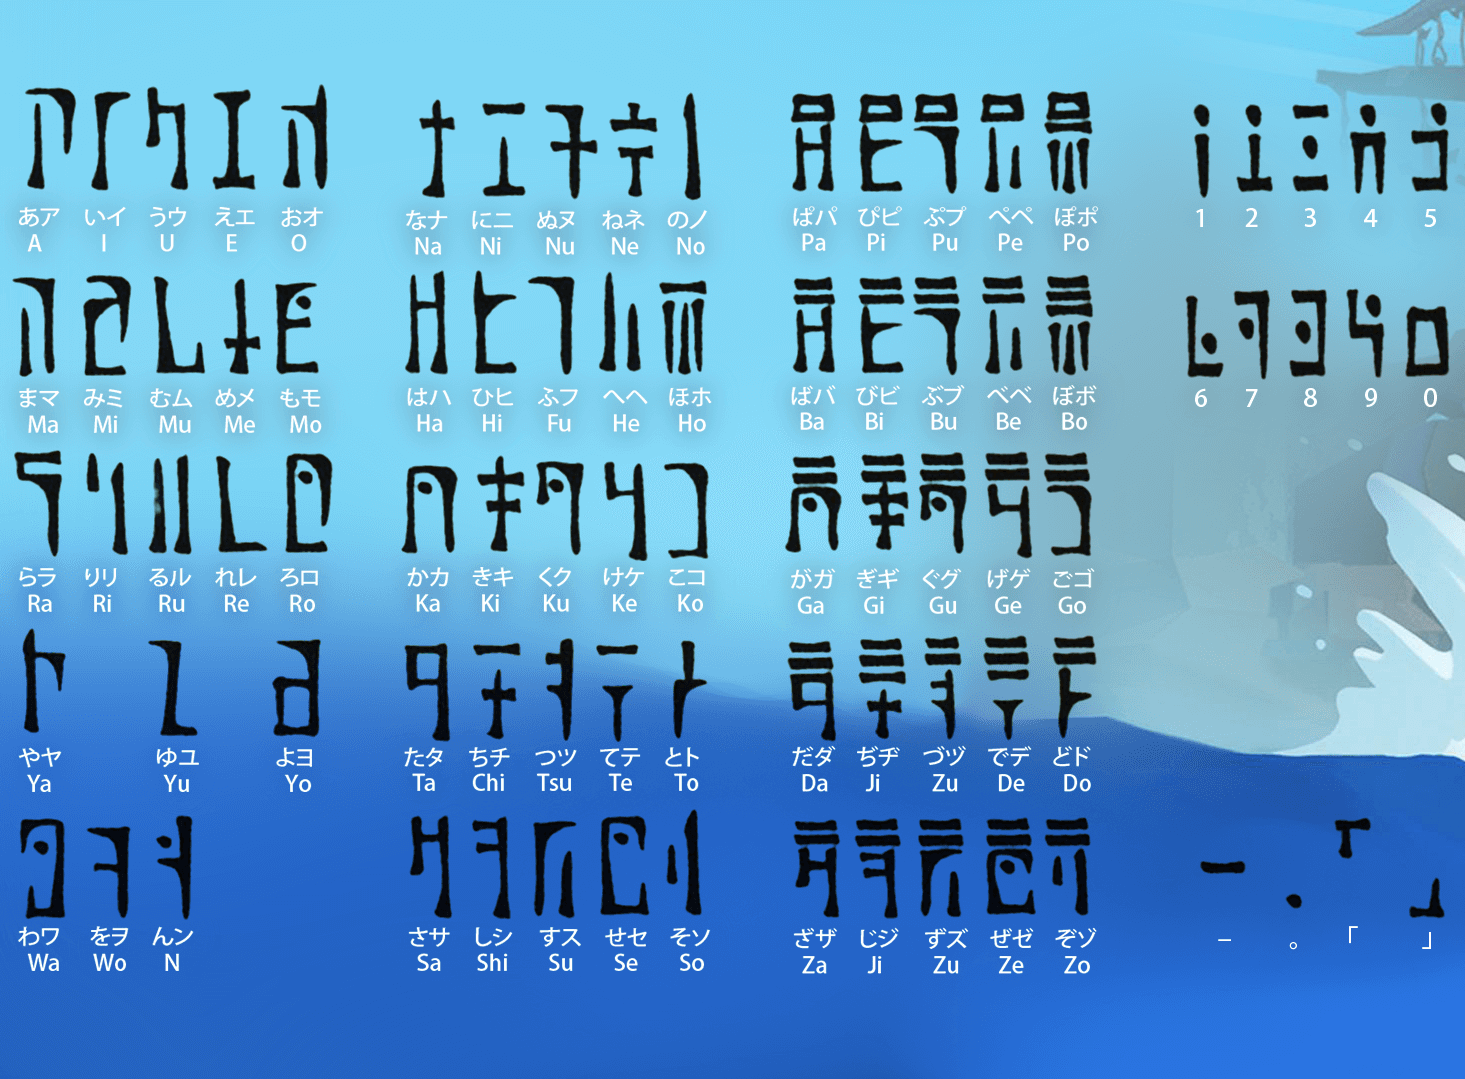
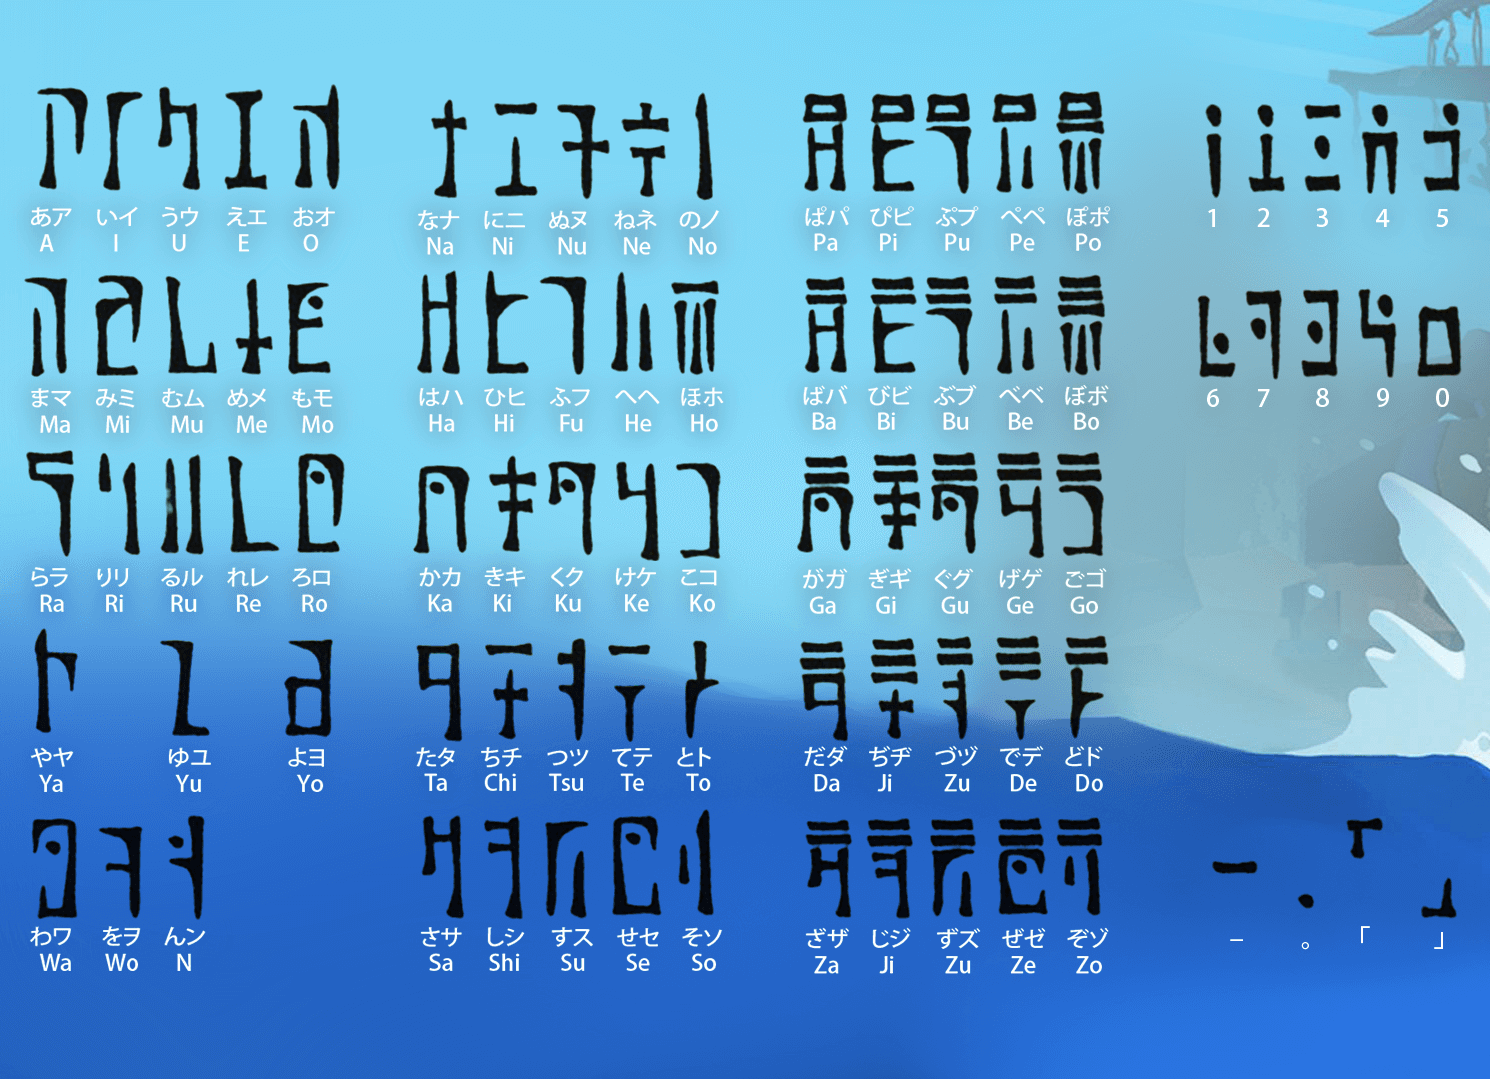
close overlay

diff --git a/script.js b/script.js
@@ -42,7 +42,7 @@ const hylianVersionImages = {
 inputTextElement.addEventListener("input", translateText); // Attach event listener to the inputTextArea
 hylianVersionElement.addEventListener('change', inputTextReady); // Add an event listener for the <select> element 'change' event
 
-showHylianMapBtn.addEventListener('click', () => { 
+showHylianMapBtn.addEventListener('click', () => {
   const selectedVersion = hylianVersionSelect.value;
   const imageToDisplay = preloadImage(selectedVersion);
 
@@ -63,7 +63,6 @@ showHylianMapBtn.addEventListener('click', () => {
   };
 });
 
-
 // Close the overlay when the close button is clicked
 closeOverlayBtn.addEventListener('click', () => {
   overlay.classList.remove('open');
@@ -76,19 +75,24 @@ overlay.addEventListener('click', (event) => {
   }
 });
 
-window.addEventListener('resize', updateImageForDevice); //When page resized updated overlay images (for mobile)
+window.addEventListener('resize', () => {
+  const selectedVersion = hylianVersionSelect.value;
+  const imageToDisplay = preloadImage(selectedVersion); // Preload the image again based on the current version
+
+  // Update the image source
+  hylianMapImage.src = imageToDisplay.src;
+});
 
 // Event listener for the dropdown change
 hylianVersionElement.addEventListener('change', function () {
   const selectedVersion = this.value;
   showTwilight(selectedVersion);  // Call the function to show or hide Twilight Princess options based on the selection
-  updateImageForDevice();  //Update overlay image version (for mobile)
   // Preload and update the selected overlay image
   const imageToDisplay = preloadImage(selectedVersion);
   
   // Wait for the image to load before updating the overlay
   imageToDisplay.onload = function() {
-    hylianMapImage.src = imageToDisplay.src; // Update the overlay image
+  hylianMapImage.src = imageToDisplay.src; // Update the overlay image
   };
 });
 
@@ -111,7 +115,6 @@ window.addEventListener('load', function () {
   // Apply the current font color from the color picker (if any) on page load
   const fontColorValue = fontColorInput.value;
   translatedTextElement.style.color = fontColorValue; // Apply the font color
-  updateImageForDevice();  //Update overlay image version (for mobile)
   preloadImage(selectedVersion);  // Preload the selected over lay image for the version
 });
 
@@ -427,27 +430,20 @@ function exportAsPNG() {
   }
 }
 
-// Preload the image based on the selected version
 function preloadImage(version) {
   const image = new Image();
-  image.src = hylianVersionImages[version];
-  return image;
-}
-
-function updateImageForDevice() {
-  const selectedVersion = hylianVersionSelect.value;
-
-  // Select the appropriate image based on screen size
   let imageSrc;
-  
+
+  // Determine if it's mobile or desktop
   if (window.innerWidth <= 768) {
     // Mobile image version (more narrow)
-    imageSrc = hylianVersionImages[selectedVersion + '-mobile'] || hylianVersionImages[selectedVersion];
+    imageSrc = hylianVersionImages[version + '-mobile'];
   } else {
     // Desktop image version (standard)
-    imageSrc = hylianVersionImages[selectedVersion];
+    imageSrc = hylianVersionImages[version];
   }
 
-  // Update the image source
-  hylianMapImage.src = imageSrc;
+  // Set the image source
+  image.src = imageSrc;
+  return image;
 }

diff --git a/styles.css b/styles.css
@@ -240,44 +240,36 @@ a:hover {
   display: flex;
 }
 
-/* Close Button Styles */
-.close-btn {
+/* Close Icon Styles */
+.close-icon {
   position: absolute;
-  top: 2%;
-  right: 5%;
-  background: none;
-  border: 2px solid white;
-  color: white;
-  font-size: 3vw;  /* Font size in viewport width for responsiveness */
-  width: 2vw;  /* Width as a percentage of the viewport width */
-  height: 4vw; /* Height to maintain square aspect ratio */
-  display: flex;
-  align-items: center;
-  justify-content: center;  /* Center the icon/text inside the button */
-  border-radius: 0;  /* No rounded corners */
-  cursor: pointer;
-  transition: color 0.3s, border-color 0.3s;  /* Smooth transition for hover effects */
+  opacity: 0.65;
+  top: 1%;    /* 2% from the top of the overlay */
+  right: 5%;  /* 2% from the right of the overlay */
+  width: 4%;  /* Width of the close icon is 8% of the overlay's width */
+  height: auto;  /* Keep the aspect ratio intact */
+  object-fit: contain;  /* Ensures image scales properly */
+  cursor: pointer;  /* Pointer cursor on hover */
+  z-index: 1100;  /* Keep it above other content */
+  transition: opacity 0.3s ease;  /* Smooth transition effect */
 }
 
-/* Close Button Hover Styles */
-.close-btn:hover {
-  color: #f1c40f;  /* Highlight color when hovered */
-  border-color: #f1c40f;  /* Change border color on hover */
-  background: none;
+/* Close Icon Hover Effect */
+.close-icon:hover {
+  opacity: 1;
+  transform: translateY(-4%);  /* Move the icon up*/
 }
 
+/* Overlay Content - Centering and styling */
 .overlay-content {
-  position: relative;  /* Keeps content inside the overlay in place */
+  position: relative;
+  text-align: center;
   display: flex;
   justify-content: center;
   align-items: center;
-}
-
-/* Container for the dropdown and button */
-.dropdown-container {
-  display: flex;
-  align-items: center; /* Vertically center the dropdown and button */
-  gap: 10px; /* Space between the dropdown and the button */
+  max-width: 100%;
+  max-height: 100%;
+  overflow: hidden;
 }
 
 /* Spinner styling */
@@ -389,6 +381,29 @@ a:hover {
     width: 100%;    /* Images take up full width */
     margin: 0 0 20px 0;  /* Space below the image */
     display: block;   /* Ensure images are block-level */
+  }
+
+    .close-icon {
+      position: absolute; /* Ensure it's positioned */
+      z-index: 1100;  /* Make sure it's on top */
+          width: 8%;  /* Width of the close icon is 8% of the overlay's width */
+          height: auto;  /* Keep the aspect ratio intact */
+    }
+
+    .close-icon:hover {
+      opacity: 1;
+      transform: translateY(-4%);
+      z-index: 1200;  /* Ensure hover state is above other content */
+    }
+}
+
+/* Mobile Styles for width < 412px */
+@media (max-width: 412px) {
+  /* Target the select dropdown directly */
+  select {
+    width: 70%;  /* Reduce the width of the dropdown */
+    font-size: 1em; /* Adjust the font size */
+    padding: 8px 12px; /* Adjust padding if needed */
   }
 }
 
@@ -565,5 +580,6 @@ p.symbol{
     font-display: swap;
 }
 }
+
 
 

diff --git a/index.html b/index.html
@@ -118,10 +118,10 @@
     <!-- Image Overlay (Initially Hidden) -->
     <div id="overlay" class="overlay">
       <div class="overlay-content">
-        <!-- Close Button -->
-        <button id="closeOverlayBtn" class="close-btn">&times;</button>
         <!-- Dynamic Image -->
         <img id="hylianMapImage" src="" alt="Hylian Alphabet Mapping">
+        <!-- Close Icon -->
+        <img id="closeOverlayBtn" class="close-icon" src="images/close.png" alt="Close">
       </div>
     </div>
         
